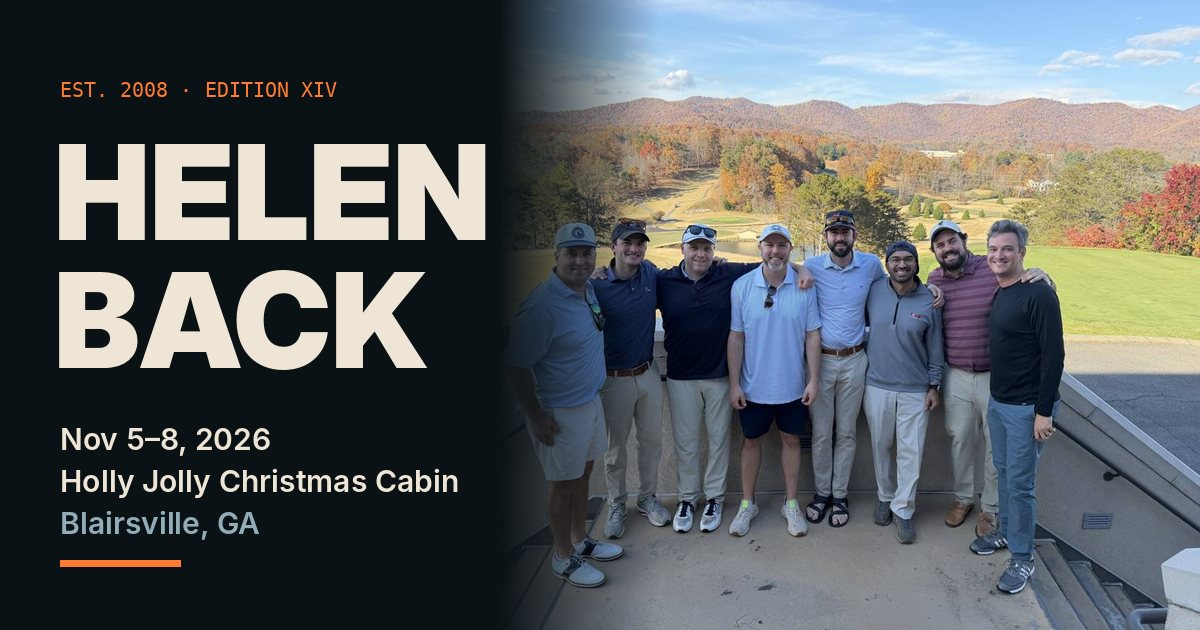
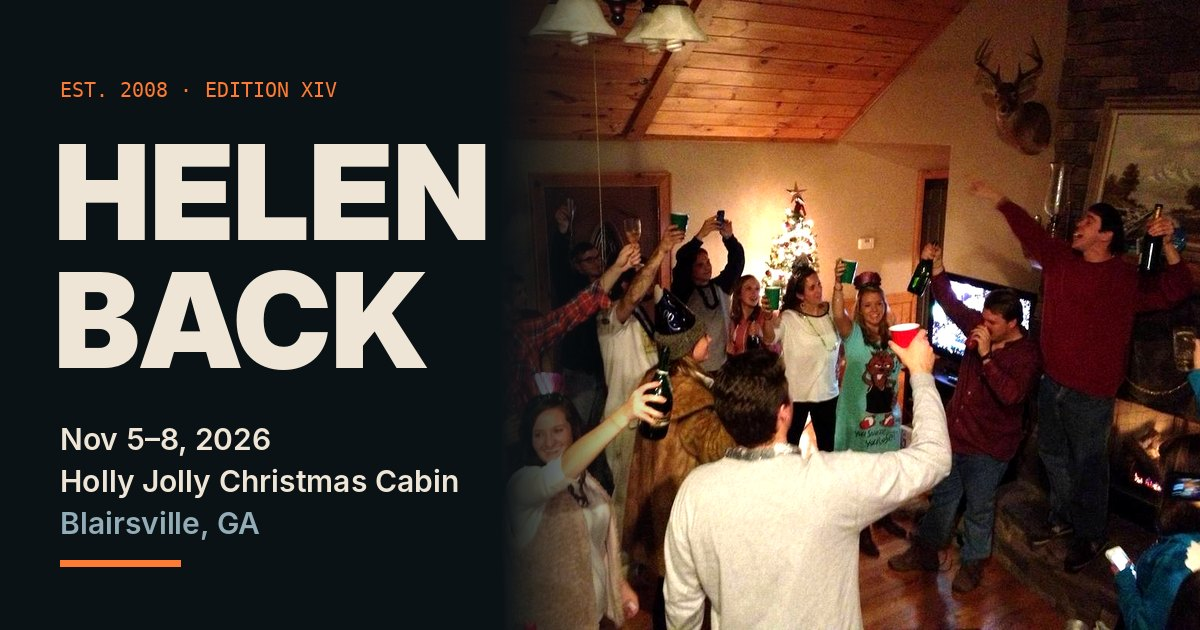
Link preview: 2012 midnight crowd
Claude-Session: https://claude.ai/code/session_01S3uR9rTHYLiKNaaSK5ZUgE

diff --git a/sw.js b/sw.js
@@ -1,5 +1,5 @@
 /* Helenback offline cache */
-const V="hb14-v13";
+const V="hb14-v14";
 const PRE=["photos/reel/2012d.jpg","photos/fun/2012d.jpg","photos/reel/2010b.jpg","photos/fun/2010a.jpg","photos/reel/2020d.jpg","photos/reel/2020e.jpg","photos/reel/2021d.jpg","photos/reel/2021e.jpg","photos/reel/2022d.jpg","photos/reel/2022e.jpg","photos/reel/2023d.jpg","photos/reel/2023e.jpg","photos/reel/2024d.jpg","photos/reel/2024e.jpg","photos/reel/2025d.jpg","photos/reel/2025f.jpg","./", "index.html", "manifest.webmanifest", "icon-180.png", "icon-192.png", "icon-512.png", "helenback-xiv.ics", "photos/2012.jpg", "photos/2024.jpg", "photos/2025.jpg", "photos/2013.jpg", "photos/2020.jpg", "photos/2016.jpg", "photos/2021.jpg", "photos/2008.jpg", "photos/2023.jpg", "photos/2022.jpg", "photos/fun/2025b.jpg", "photos/fun/2016b.jpg", "photos/fun/2025c.jpg", "photos/fun/2012a.jpg", "photos/fun/2013b.jpg", "photos/fun/2020b.jpg", "photos/fun/2021c.jpg", "photos/fun/2013a.jpg", "photos/fun/2022a.jpg", "photos/fun/2024a.jpg", "photos/fun/2016a.jpg", "photos/fun/2023a.jpg", "photos/fun/2022b.jpg", "photos/fun/2020c.jpg", "photos/fun/2021a.jpg", "photos/fun/2023c.jpg", "photos/fun/2020a.jpg", "photos/fun/2022c.jpg", "photos/fun/2012c.jpg", "photos/fun/2024b.jpg", "photos/fun/2023b.jpg", "photos/fun/2024c.jpg", "photos/fun/2012b.jpg", "photos/fun/2021b.jpg"];
 self.addEventListener("install",e=>{e.waitUntil(caches.open(V).then(c=>c.addAll(PRE)).then(()=>self.skipWaiting()))});
 self.addEventListener("activate",e=>{e.waitUntil(caches.keys().then(ks=>Promise.all(ks.filter(k=>k!==V).map(k=>caches.delete(k)))).then(()=>self.clients.claim()))});

diff --git a/index.html b/index.html
@@ -11,11 +11,11 @@
 <meta property="og:title" content="Helenback XIV · Nov 5–8">
 <meta property="og:description" content="Holly Jolly Christmas Cabin, Blairsville. The Nut Cup, the hike, the Dawgs at Ole Miss, and 18 years of the archive.">
 <meta property="og:url" content="https://peytoned21.github.io/helenback/">
-<meta property="og:image" content="https://peytoned21.github.io/helenback/og.jpg">
+<meta property="og:image" content="https://peytoned21.github.io/helenback/og.jpg?v=2">
 <meta property="og:image:width" content="1200">
 <meta property="og:image:height" content="630">
 <meta name="twitter:card" content="summary_large_image">
-<meta name="twitter:image" content="https://peytoned21.github.io/helenback/og.jpg">
+<meta name="twitter:image" content="https://peytoned21.github.io/helenback/og.jpg?v=2">
 <link rel="manifest" href="manifest.webmanifest">
 <link rel="icon" href="icon-192.png">
 <link rel="apple-touch-icon" href="icon-180.png">
